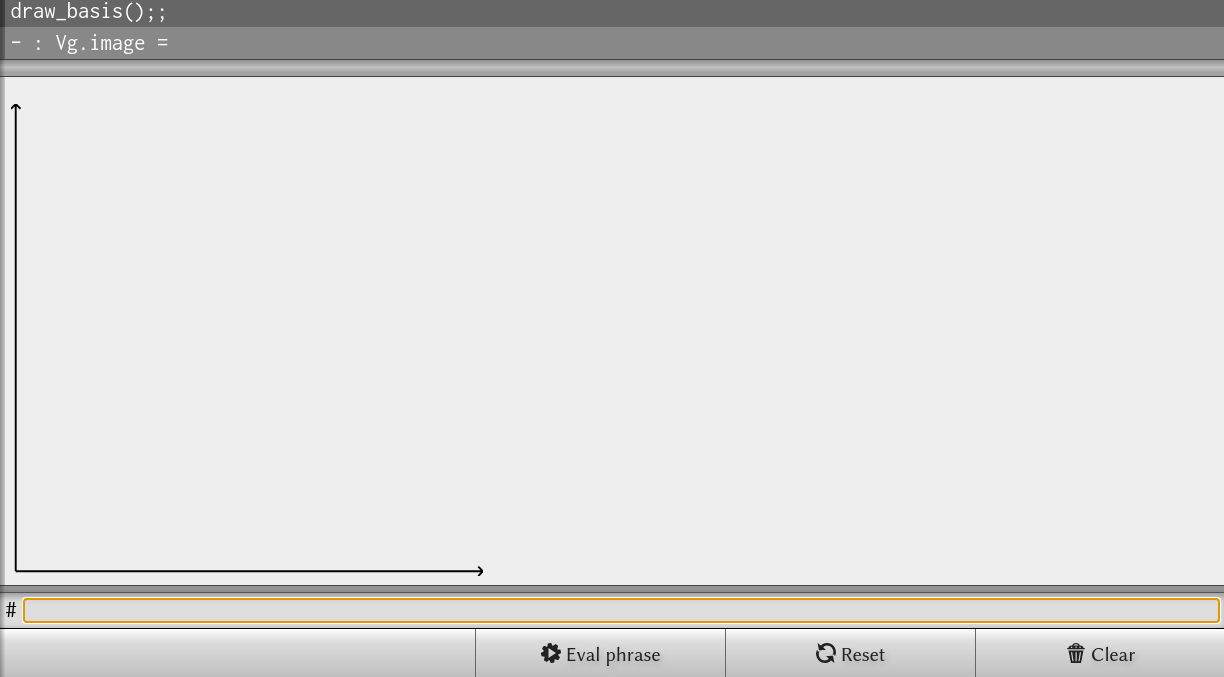
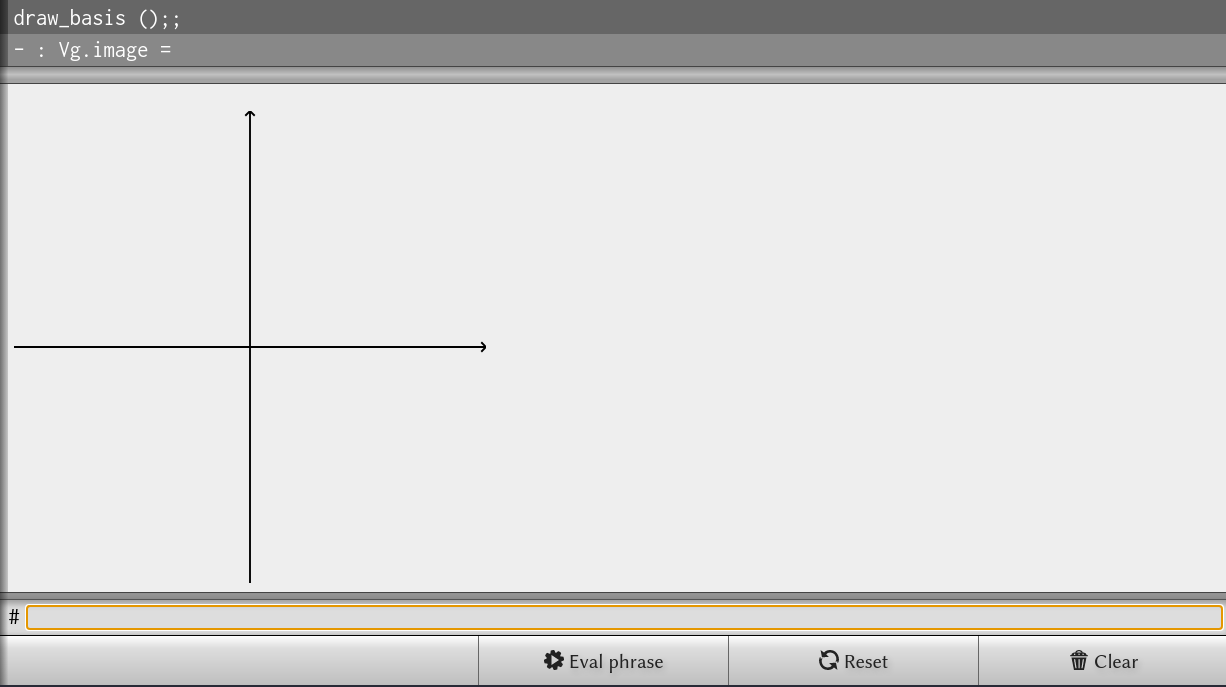
neg graphs

diff --git a/samples/graphs_en/descr.md b/samples/graphs_en/descr.md
@@ -2,8 +2,6 @@
 
 In these exercices we'll try to plot different types of graphs for functions using the Vg module. That's why you'll need a bit of Vg knowledge before trying these questions. For that, you can (must) do the tutorial available in the list of exercices.
 
-The basis will start at `x0`, `y0` and the maximum length of the axis will be respectively `x_max` and `y_max` so be carefull when testing funtions.
-
 ## First function
 
 **Question 1** : write the function
@@ -31,19 +29,19 @@ to place your function's graph on top of this basis.
   />
 </div>
 
-**Question 2** : We'll start by writing a function `graph_f_int` to plot graphs of funtion from positive integers to positive integers.
+**Question 2** : We'll start by writing a function `graph_f_int` to plot graphs of funtion from integers to integers.
 
 ```OCaml
-  val graph_f_int : (int -> int) -> int -> float -> float -> Vg.path
+  val graph_f_int : (int -> int) -> (int*int) -> float -> float -> Vg.path
 ```
 
-Which, given a function, an integer that represents the bound of the maximum value we'll test and two floating values that represent the abscissa and ordinate scalings to make the graphs fit in the canvas, returns a path representing the function.
+Which, given a function, a tuple of integers that represents the bounds of the values we'll test and two floating values that represent the abscissa and ordinate scalings to make the graphs fit in the canvas, returns a path representing the function.
 
 For example :
 
 ```OCaml
   let f n = n;;
-  let i = I.const (Color.red) |> I.cut (graph_f_int f 10 0.1 0.1) 
+  let i = I.const (Color.red) |> I.cut (graph_f_int f (-10,10) 0.1 0.1) 
             in (I.blend i (Solution.draw_basis()));;
 ```
 
@@ -66,15 +64,15 @@ which add a small dot at position (x,y) in an existing path.
 **Question 3** : We'll try now to implement a function `graph_f_int_hist` to plot an histogram. 
 
 ```OCaml
-  val graph_f_int_hist : (int -> int) -> int -> float -> float -> float -> Vg.path
+  val graph_f_int_hist : (int -> int) -> (int -> int) -> float -> float -> float -> Vg.path
 ```
 
 Which given the same arguments as the previous function plus a float representing the width of the segments returns a path representing the histogram.
 
 ```OCaml
   let f n = n;;
-  let i1 = (I.const Color.black) |> (I.cut (graph_f_int f 10 0.1 0.1)) in
-  let i2 = (I.const Color.red) |> (I.cut (graph_f_int_hist f 10 0.1 0.1 0.05)) in
+  let i1 = (I.const Color.black) |> (I.cut (graph_f_int f (-10,10) 0.1 0.1)) in
+  let i2 = (I.const Color.red) |> (I.cut (graph_f_int_hist f (-10,10) 0.1 0.1 0.05)) in
     (I.blend i2 (I.blend i1 (draw_basis())));;
 ```
 
@@ -97,3 +95,4 @@ Write a function
 ```
 
 Which, given a function, a float that represents the bound of the maximum value we'll test and two floating values that represent the abscissa and ordinate scalings to make the graphs fit in the canvas and a float representing the space between two points, returns a path representing the function.
+If a point is undefind it should not be ploted.
